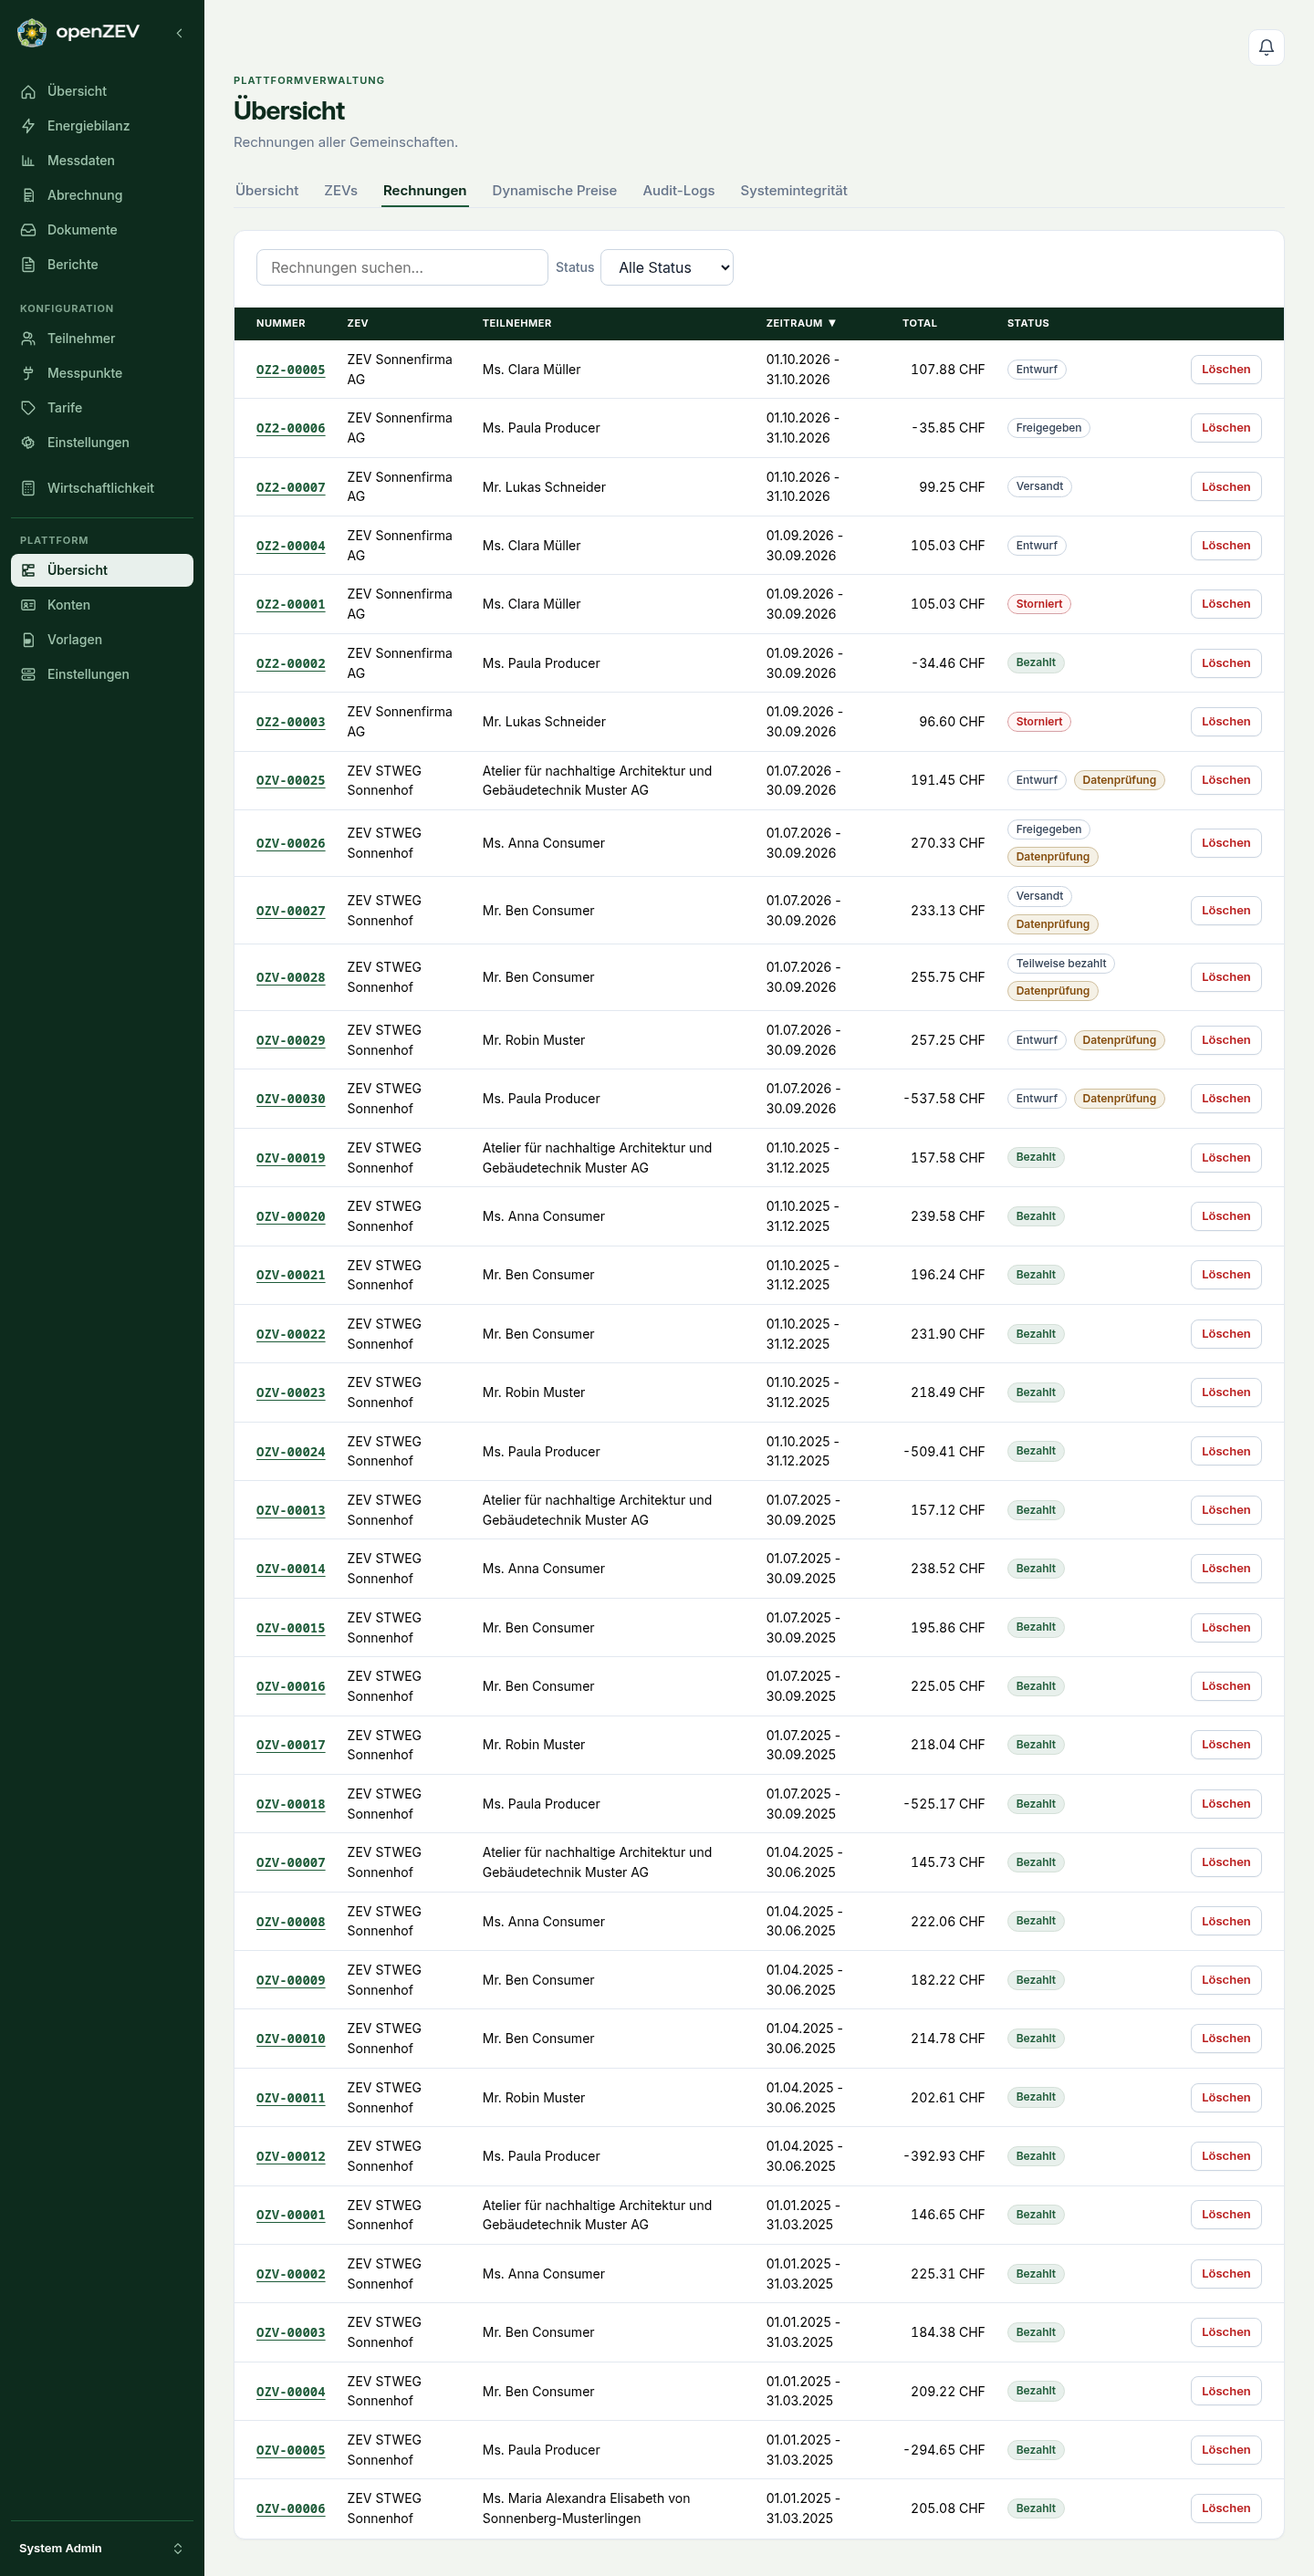
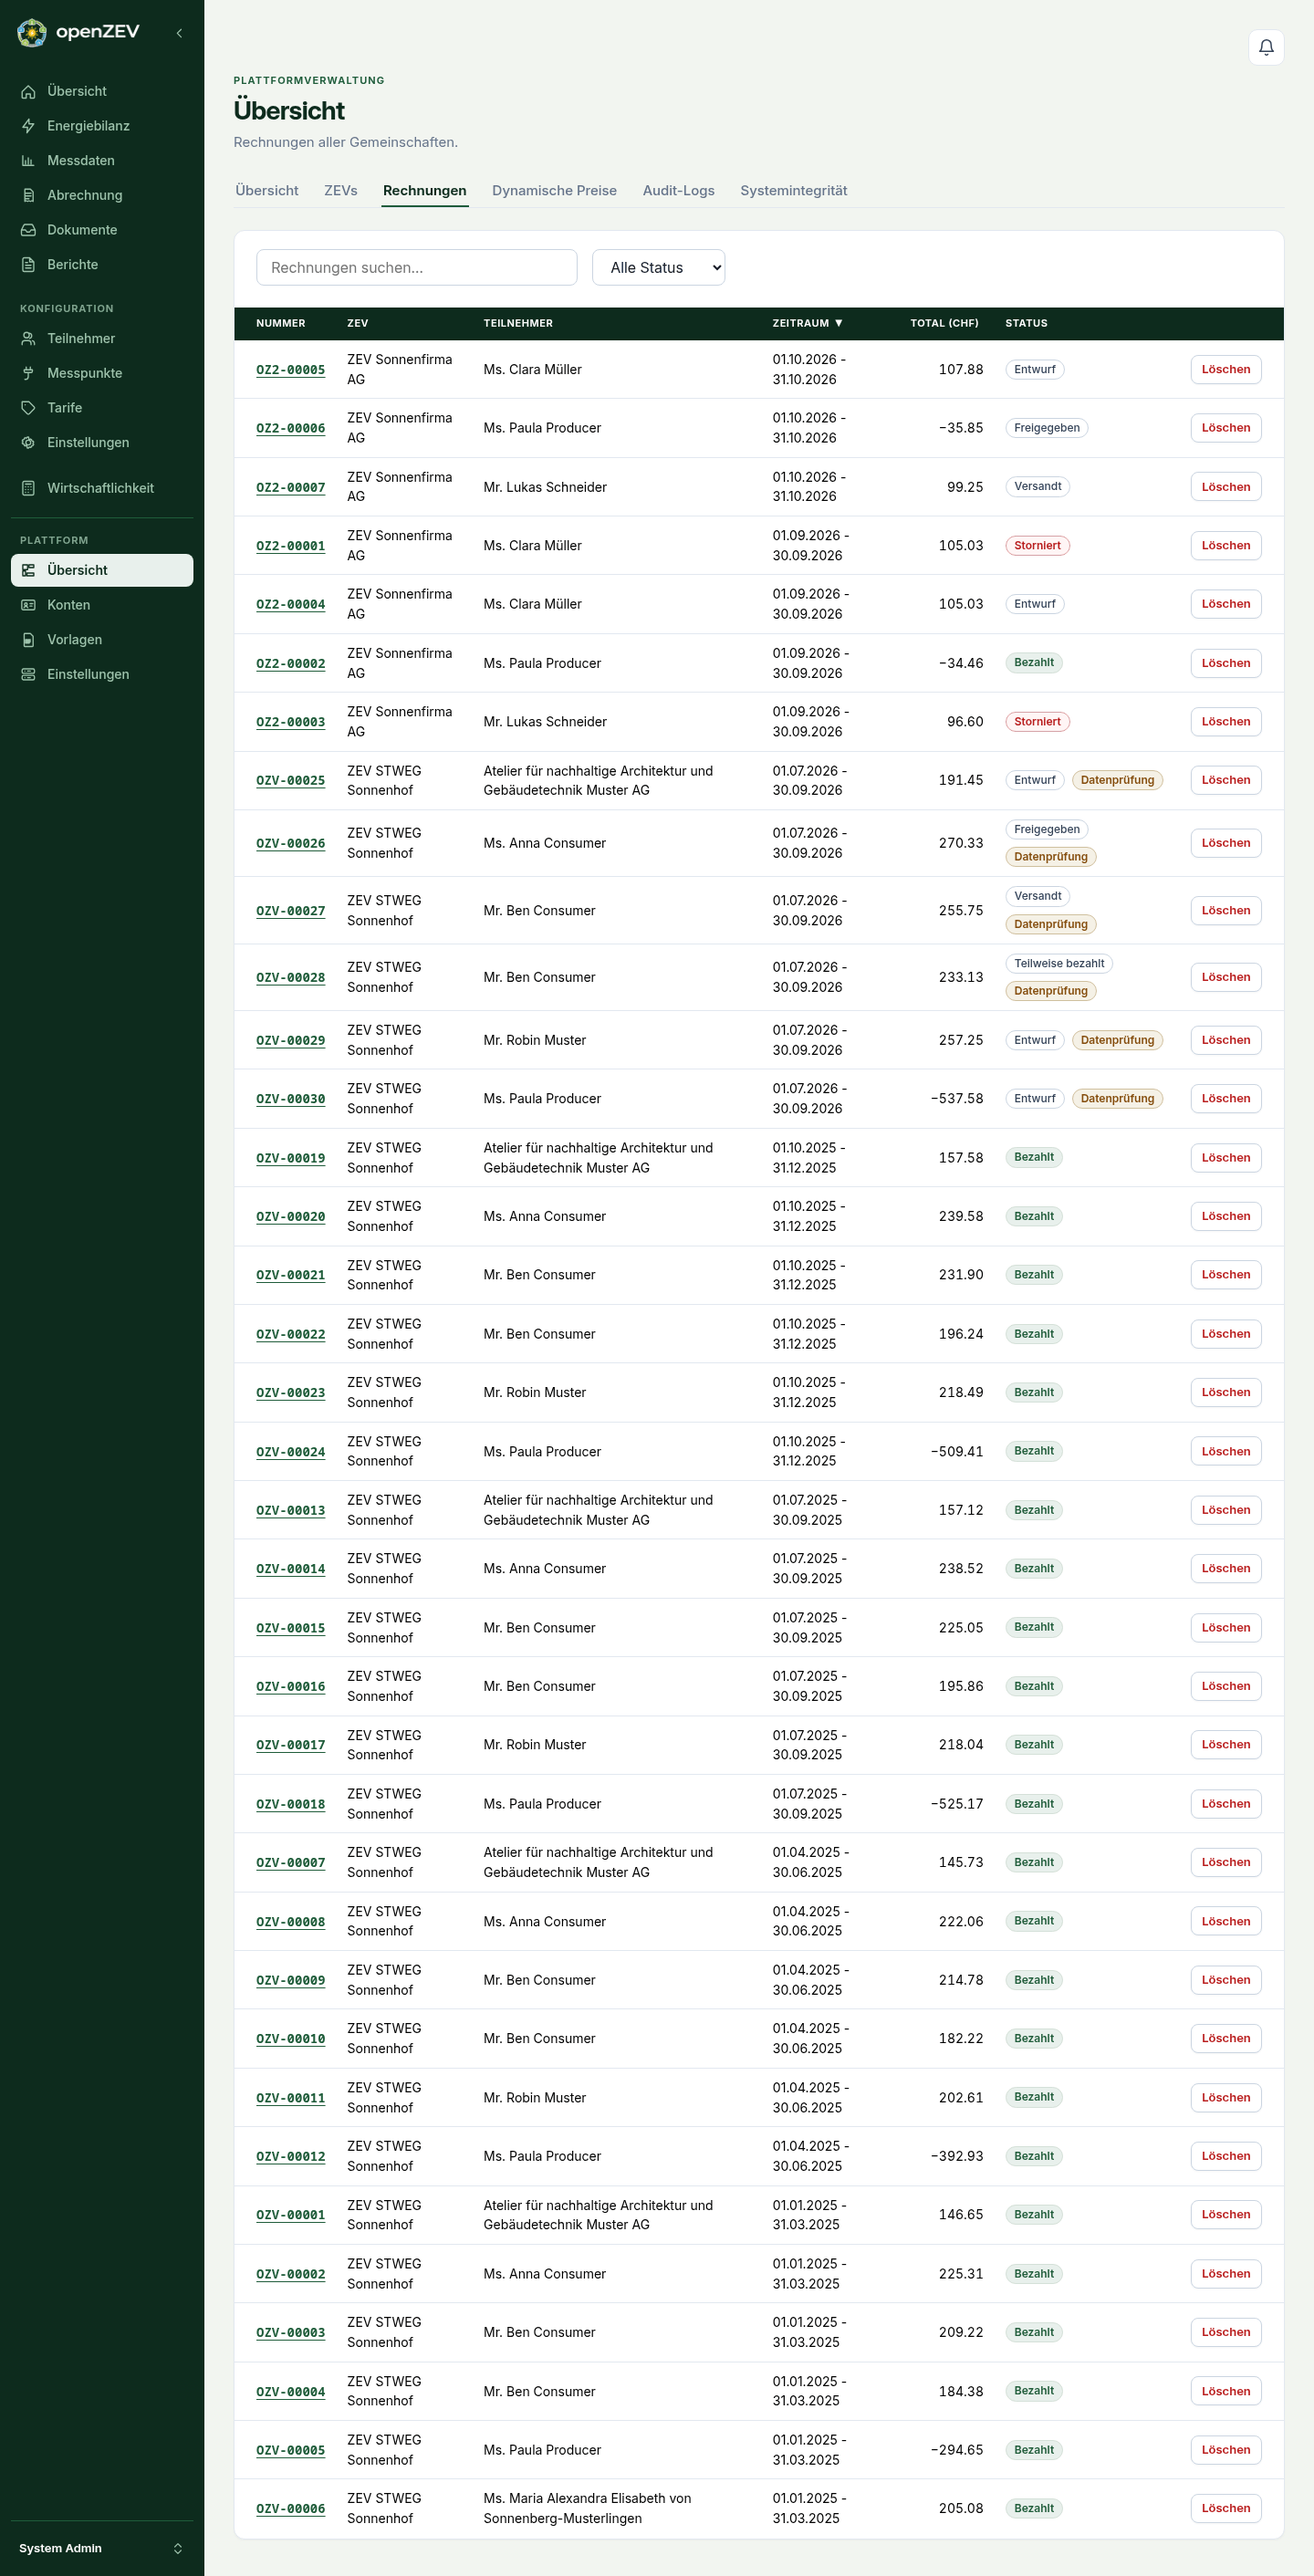
fix(invoices): name CHF in the admin total header, not each cell (#1301)
* fix(invoices): name CHF in the admin total header, not each cell

The admin invoice list printed the raw API string with a trailing
currency ("129.00 CHF") in every row. It now follows the period table and
the invoice PDF: the header says "Total (CHF)" and cells show the bare
amount through InvoiceAmount (typographic minus for credit totals).

While here: the period cell reuses the memoised period_display, the
redundant numeric:false meta is dropped, and the filters use the shared
.list-filters row instead of inline styles (with aria-labels on the
search and status controls). The test checks the amount cell once and
order/search by invoice number, without the needless 20 ms sleep.

* test(frontend): mock app settings in the linked-accounts test

#1300 made LinkedAccountsCard read useAppSettings while #1307 added
this test without an AppSettingsProvider, so main fails all three cases.

diff --git a/frontend/src/pages/AdminInvoicesPage.tsx b/frontend/src/pages/AdminInvoicesPage.tsx
@@ -10,7 +10,7 @@ import { deleteInvoice, fetchInvoices } from '../lib/api/invoices'
 import { formatApiError } from '../lib/api/errors'
 import { queryKeys } from '../lib/api/queryKeys'
 import { useToast } from '../lib/toast'
-import { InvoiceActionButton, InvoiceLink, InvoiceStatusBadge } from '../components/InvoicePresentation'
+import { InvoiceActionButton, InvoiceAmount, InvoiceLink, InvoiceStatusBadge } from '../components/InvoicePresentation'
 import type { Invoice } from '../types/api'
 
 // Stable empty array so the useMemo below keeps a consistent dependency reference.
@@ -97,13 +97,13 @@ export function AdminInvoicesContent() {
             {
                 accessorKey: 'period_sort',
                 header: t('adminInvoices.period'),
-                cell: (ctx) => `${formatShortDate(ctx.row.original.period_start, settings)} - ${formatShortDate(ctx.row.original.period_end, settings)}`,
+                cell: (ctx) => ctx.row.original.period_display,
             },
             {
                 accessorKey: 'total_value',
                 header: t('adminInvoices.total'),
                 meta: { numeric: true },
-                cell: (ctx) => `${ctx.row.original.total_chf} CHF`,
+                cell: (ctx) => <InvoiceAmount value={ctx.row.original.total_chf} currency={false} />,
             },
             {
                 accessorKey: 'status',
@@ -131,7 +131,6 @@ export function AdminInvoicesContent() {
                 id: 'actions',
                 header: '',
                 enableSorting: false,
-                meta: { numeric: false },
                 cell: (ctx) => (
                     <InvoiceActionButton action={{
                         label: t('adminInvoices.delete'),
@@ -142,7 +141,7 @@ export function AdminInvoicesContent() {
                 ),
             },
         ],
-        [t, settings, handleDelete, deleteMutation.isPending],
+        [t, handleDelete, deleteMutation.isPending],
     )
 
     if (invoicesQuery.isSuccess && invoices.length === 0) {
@@ -155,34 +154,31 @@ export function AdminInvoicesContent() {
                 {invoicesQuery.isLoading && <p>{t('adminInvoices.loading')}</p>}
                 {invoicesQuery.isError && <p className="text-error">{t('adminInvoices.loadError')}</p>}
                 {invoices.length > 0 && (
-                    <div className="page-stack sheet-table-body" style={{ width: '100%' }}>
-                        <div className="actions-row" style={{ flexWrap: 'wrap' }}>
+                    <div className="page-stack sheet-table-body">
+                        <div className="list-filters">
                             <input
                                 type="search"
                                 placeholder={t('adminInvoices.quickFilterPlaceholder')}
+                                aria-label={t('adminInvoices.quickFilterPlaceholder')}
                                 value={search}
                                 onChange={(e) => setSearch(e.target.value)}
-                                style={{ maxWidth: '20rem' }}
                             />
-                            <label style={{ display: 'inline-flex', alignItems: 'center', gap: '0.4rem' }}>
-                                <span className="muted">{t('adminInvoices.status')}</span>
-                                <select
-                                    value={String(columnFilters.find((f) => f.id === 'status')?.value ?? '')}
-                                    onChange={(e) =>
-                                        setColumnFilters(
-                                            e.target.value
-                                                ? [{ id: 'status', value: e.target.value }]
-                                                : [],
-                                        )
-                                    }
-                                    style={{ width: 'auto' }}
-                                >
-                                    <option value="">{t('adminInvoices.allStatuses')}</option>
-                                    {(['draft', 'approved', 'sent', 'paid', 'cancelled'] as const).map((value) => (
-                                        <option key={value} value={value}>{t(`invoice.status.${value}`)}</option>
-                                    ))}
-                                </select>
-                            </label>
+                            <select
+                                aria-label={t('adminInvoices.status')}
+                                value={String(columnFilters.find((f) => f.id === 'status')?.value ?? '')}
+                                onChange={(e) =>
+                                    setColumnFilters(
+                                        e.target.value
+                                            ? [{ id: 'status', value: e.target.value }]
+                                            : [],
+                                    )
+                                }
+                            >
+                                <option value="">{t('adminInvoices.allStatuses')}</option>
+                                {(['draft', 'approved', 'sent', 'paid', 'cancelled'] as const).map((value) => (
+                                    <option key={value} value={value}>{t(`invoice.status.${value}`)}</option>
+                                ))}
+                            </select>
                         </div>
                         <DataTable
                             data={filteredRows}

diff --git a/frontend/tests/invoice-presentation.test.ts b/frontend/tests/invoice-presentation.test.ts
@@ -159,18 +159,20 @@ describe('shared invoice presentation', () => {
         const sort = [...container.querySelectorAll<HTMLButtonElement>('.data-table-sort')]
             .find(button => button.textContent?.includes('adminInvoices.total'))!
         await act(async () => sort.click())
-        expect(container.querySelector('tbody tr')?.textContent).toContain('129.00 CHF')
+        const firstRow = () => container.querySelector('tbody tr')!
+        expect(firstRow().querySelector('code')?.textContent).toBe('INV-129')
+        // The header names the currency; the cell carries only the amount.
+        expect(firstRow().querySelector('td.numeric')?.textContent).toBe('129.00')
         await act(async () => container.querySelector<HTMLButtonElement>('[aria-label="common.pagination.next"]')!.click())
         expect(container.querySelectorAll('tbody tr')).toHaveLength(30)
-        expect(container.querySelector('tbody tr')?.textContent).toContain('29.00 CHF')
+        expect(firstRow().querySelector('code')?.textContent).toBe('INV-29')
         const input = container.querySelector('input[type="search"]') as HTMLInputElement
         await act(async () => {
             Object.getOwnPropertyDescriptor(HTMLInputElement.prototype, 'value')!.set!.call(input, 'INV-29')
             input.dispatchEvent(new Event('input', { bubbles: true }))
         })
-        await act(async () => { await new Promise(resolve => setTimeout(resolve, 20)) })
         expect(container.querySelectorAll('tbody tr')).toHaveLength(1)
-        expect(container.querySelector('tbody')?.textContent).toContain('29.00 CHF')
+        expect(firstRow().querySelector('code')?.textContent).toBe('INV-29')
         expect(container.querySelector('.data-table-footer')).toBeNull()
     })
 })

diff --git a/frontend/tests/linked-accounts-card.test.ts b/frontend/tests/linked-accounts-card.test.ts
@@ -7,6 +7,7 @@ import { flush } from './pdf-test-utils'
 
 vi.mock('react-i18next', () => ({ useTranslation: () => ({ t: (key: string) => key }) }))
 vi.mock('../src/lib/toast', () => ({ useToast: () => ({ pushToast: vi.fn() }) }))
+vi.mock('../src/lib/appSettings', () => ({ useAppSettings: () => ({ settings: {} }), formatShortDate: (date: string) => date }))
 vi.mock('../src/lib/api/auth', () => ({
     fetchOAuthProviders: vi.fn(),
     fetchSocialAccounts: vi.fn(() => Promise.resolve([])),

diff --git a/frontend/src/i18n/locales/fr.ts b/frontend/src/i18n/locales/fr.ts
@@ -5211,7 +5211,7 @@ export const fr = {
         zev: 'RCP',
         participant: 'Participant',
         period: 'Période',
-        total: 'Total',
+        total: 'Total (CHF)',
         status: 'Statut',
         allStatuses: 'Tous les statuts',
         quickFilterPlaceholder: 'Rechercher des factures…',

diff --git a/frontend/src/i18n/locales/it.ts b/frontend/src/i18n/locales/it.ts
@@ -5211,7 +5211,7 @@ export const it = {
         zev: 'RCP',
         participant: 'Partecipante',
         period: 'Periodo',
-        total: 'Totale',
+        total: 'Totale (CHF)',
         status: 'Stato',
         allStatuses: 'Tutti gli stati',
         quickFilterPlaceholder: 'Cerca fatture…',

diff --git a/frontend/src/i18n/locales/de.ts b/frontend/src/i18n/locales/de.ts
@@ -5211,7 +5211,7 @@ export const de = {
         zev: 'ZEV',
         participant: 'Teilnehmer',
         period: 'Zeitraum',
-        total: 'Total',
+        total: 'Total (CHF)',
         status: 'Status',
         allStatuses: 'Alle Status',
         quickFilterPlaceholder: 'Rechnungen suchen…',

diff --git a/frontend/src/i18n/locales/en.ts b/frontend/src/i18n/locales/en.ts
@@ -5222,7 +5222,7 @@ export const en = {
         zev: 'ZEV',
         participant: 'Participant',
         period: 'Period',
-        total: 'Total',
+        total: 'Total (CHF)',
         status: 'Status',
         allStatuses: 'All statuses',
         quickFilterPlaceholder: 'Search invoices…',

diff --git a/docs/specs/2026-08-ui-redesign-pdf-style.md b/docs/specs/2026-08-ui-redesign-pdf-style.md
@@ -424,11 +424,13 @@ the loaded current-scope list before querying it. Invoice URLs accept historical
 ranges from community start; their default remains the previous complete period
 bounded by the first aligned period. Shared URL navigation retains unrelated
 query parameters/hash and the hubs' existing history/mounting contracts.
-Invoice lists reuse `InvoicePresentation` cells and links, with `formatChf`
-amounts in personal/period lists, translated missing-day plurals and labelled
-PDF controls. Admin invoice totals retain the trailing currency format
-(`114.94 CHF`). Row models, permissions, workflow eligibility and pagination
-stay consumer-owned.
+Invoice lists reuse `InvoicePresentation` cells and links, translated
+missing-day plurals and labelled PDF controls. The period and admin tables
+name the currency in the amount header (`Total (CHF)`) and show the bare
+amount (`114.94`); the period rows set CHF inline only in card mode, where
+that header is hidden. The documents list keeps `CHF 114.94` in each cell.
+Row models, permissions, workflow eligibility and pagination stay with each
+list.
 
 #### Dashboard
 

diff --git a/docs/user-guide/14-admin-console.md b/docs/user-guide/14-admin-console.md
@@ -525,15 +525,15 @@ The admin invoice page provides a searchable, sortable table of **every invoice 
 | **ZEV** | The ZEV the invoice belongs to |
 | **Participant** | Participant name |
 | **Period** | Billing period date range |
-| **Total** | Invoice total in CHF |
+| **Total (CHF)** | Invoice total; the header names the currency, so the cells show the amount only |
 | **Status** | Badge showing `Draft`, `Approved`, `Sent`, `Paid`, or `Cancelled` |
 | **Actions** | Delete button |
 
 ### Searching and Filtering
 
-- Use the **quick filter** search bar in the toolbar to search across all columns.
+- Use the **search** field above the table to find invoices by number, ZEV, participant or period.
+- Use the **status** dropdown beside it to show only invoices in one status.
 - Click on a column header to **sort** by that column.
-- Use column-level filters for more targeted searching (e.g., filter by status using the dropdown).
 
 ### Deleting Invoices
 
